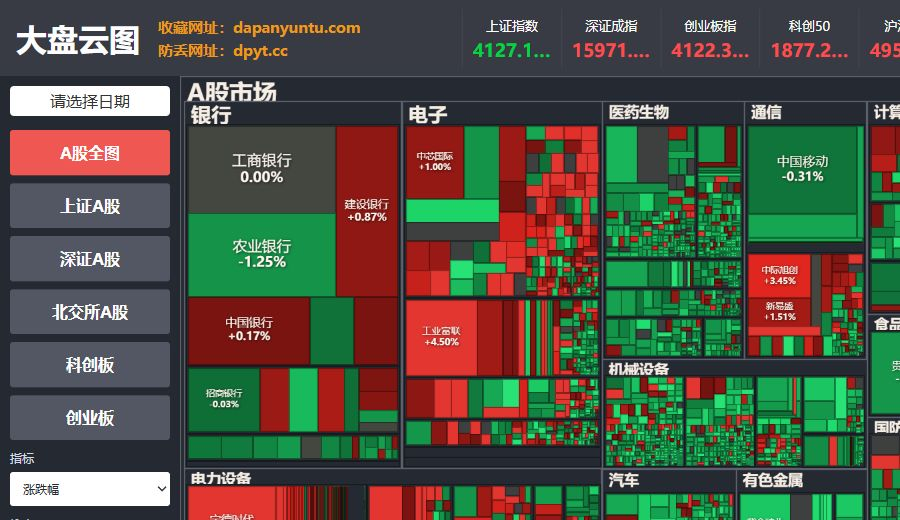
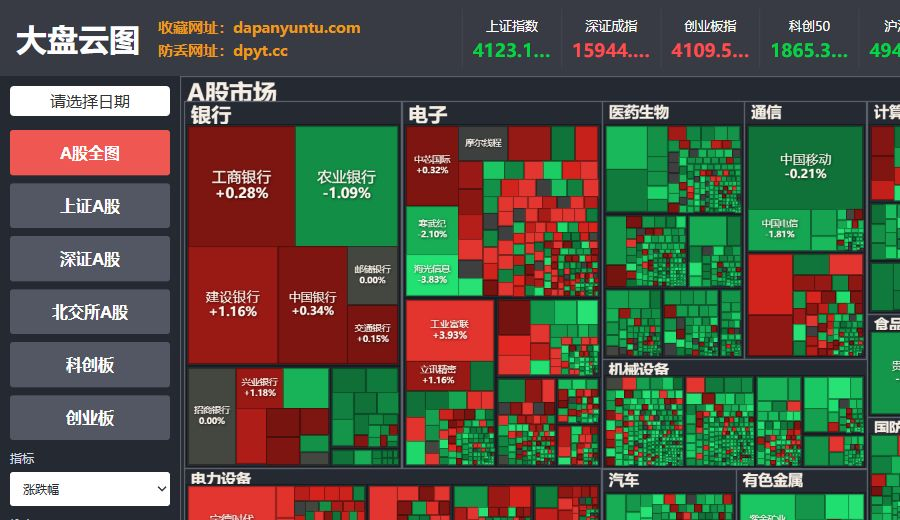
Improve treemap tile squareness

diff --git a/app.js b/app.js
@@ -94,7 +94,7 @@
     return nodes.reduce((sum, node) => sum + Math.max(0.01, node.scale), 0);
   }
 
-  function binaryTreemap(nodes, rect, depth = 0) {
+  function balancedTreemap(nodes, rect) {
     if (!nodes.length) return [];
     if (nodes.length === 1) return [{ node: nodes[0], ...rect }];
 
@@ -116,16 +116,80 @@
     if (rect.w >= rect.h) {
       const w1 = rect.w * ratio;
       return [
-        ...binaryTreemap(left, { x: rect.x, y: rect.y, w: w1, h: rect.h }, depth + 1),
-        ...binaryTreemap(right, { x: rect.x + w1, y: rect.y, w: rect.w - w1, h: rect.h }, depth + 1),
+        ...balancedTreemap(left, { x: rect.x, y: rect.y, w: w1, h: rect.h }),
+        ...balancedTreemap(right, { x: rect.x + w1, y: rect.y, w: rect.w - w1, h: rect.h }),
       ];
     }
 
     const h1 = rect.h * ratio;
     return [
-      ...binaryTreemap(left, { x: rect.x, y: rect.y, w: rect.w, h: h1 }, depth + 1),
-      ...binaryTreemap(right, { x: rect.x, y: rect.y + h1, w: rect.w, h: rect.h - h1 }, depth + 1),
+      ...balancedTreemap(left, { x: rect.x, y: rect.y, w: rect.w, h: h1 }),
+      ...balancedTreemap(right, { x: rect.x, y: rect.y + h1, w: rect.w, h: rect.h - h1 }),
     ];
+  }
+
+  function worstAspect(row, side) {
+    if (!row.length || side <= 0) return Infinity;
+    const areas = row.map((item) => item.area);
+    const sum = areas.reduce((a, b) => a + b, 0);
+    const max = Math.max(...areas);
+    const min = Math.min(...areas);
+    const side2 = side * side;
+    return Math.max((side2 * max) / (sum * sum), (sum * sum) / (side2 * min));
+  }
+
+  function layoutSquarifyRow(row, rect, out) {
+    const rowArea = row.reduce((sum, item) => sum + item.area, 0);
+    if (rect.w >= rect.h) {
+      const w = Math.min(rect.w, rowArea / rect.h);
+      let y = rect.y;
+      row.forEach((item, index) => {
+        const isLast = index === row.length - 1;
+        const h = isLast ? rect.y + rect.h - y : item.area / w;
+        out.push({ node: item.node, x: rect.x, y, w, h });
+        y += h;
+      });
+      return { x: rect.x + w, y: rect.y, w: Math.max(0, rect.w - w), h: rect.h };
+    }
+
+    const h = Math.min(rect.h, rowArea / rect.w);
+    let x = rect.x;
+    row.forEach((item, index) => {
+      const isLast = index === row.length - 1;
+      const w = isLast ? rect.x + rect.w - x : item.area / h;
+      out.push({ node: item.node, x, y: rect.y, w, h });
+      x += w;
+    });
+    return { x: rect.x, y: rect.y + h, w: rect.w, h: Math.max(0, rect.h - h) };
+  }
+
+  function squarifiedTreemap(nodes, rect) {
+    if (!nodes.length || rect.w <= 0 || rect.h <= 0) return [];
+    if (nodes.length === 1) return [{ node: nodes[0], ...rect }];
+
+    const scale = (rect.w * rect.h) / totalScale(nodes);
+    const items = nodes
+      .slice()
+      .sort((a, b) => b.scale - a.scale)
+      .map((node) => ({ node, area: Math.max(0.01, node.scale) * scale }));
+
+    const out = [];
+    let remaining = { ...rect };
+    let row = [];
+
+    while (items.length) {
+      const item = items[0];
+      const side = Math.min(remaining.w, remaining.h);
+      if (!row.length || worstAspect([...row, item], side) <= worstAspect(row, side)) {
+        row.push(items.shift());
+      } else {
+        remaining = layoutSquarifyRow(row, remaining, out);
+        row = [];
+      }
+    }
+
+    if (row.length) layoutSquarifyRow(row, remaining, out);
+    return out;
   }
 
   function layoutNode(node, rect, out) {
@@ -141,7 +205,8 @@
       h: Math.max(0, rect.h - pad * 2 - header),
     };
 
-    binaryTreemap(node.children, inner).forEach((item) => layoutNode(item.node, item, out));
+    const childRects = node.depth === 0 ? balancedTreemap(node.children, inner) : squarifiedTreemap(node.children, inner);
+    childRects.forEach((item) => layoutNode(item.node, item, out));
   }
 
   function parsePerf(raw) {
